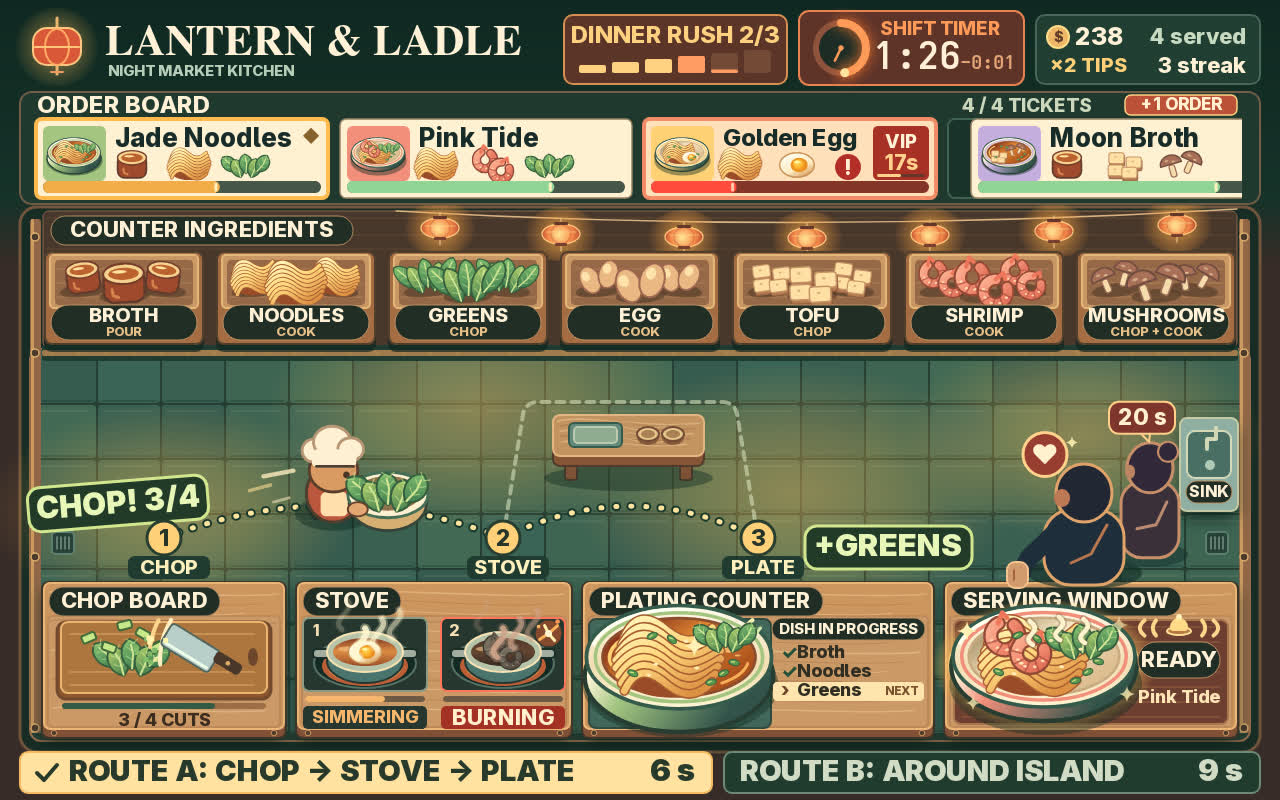
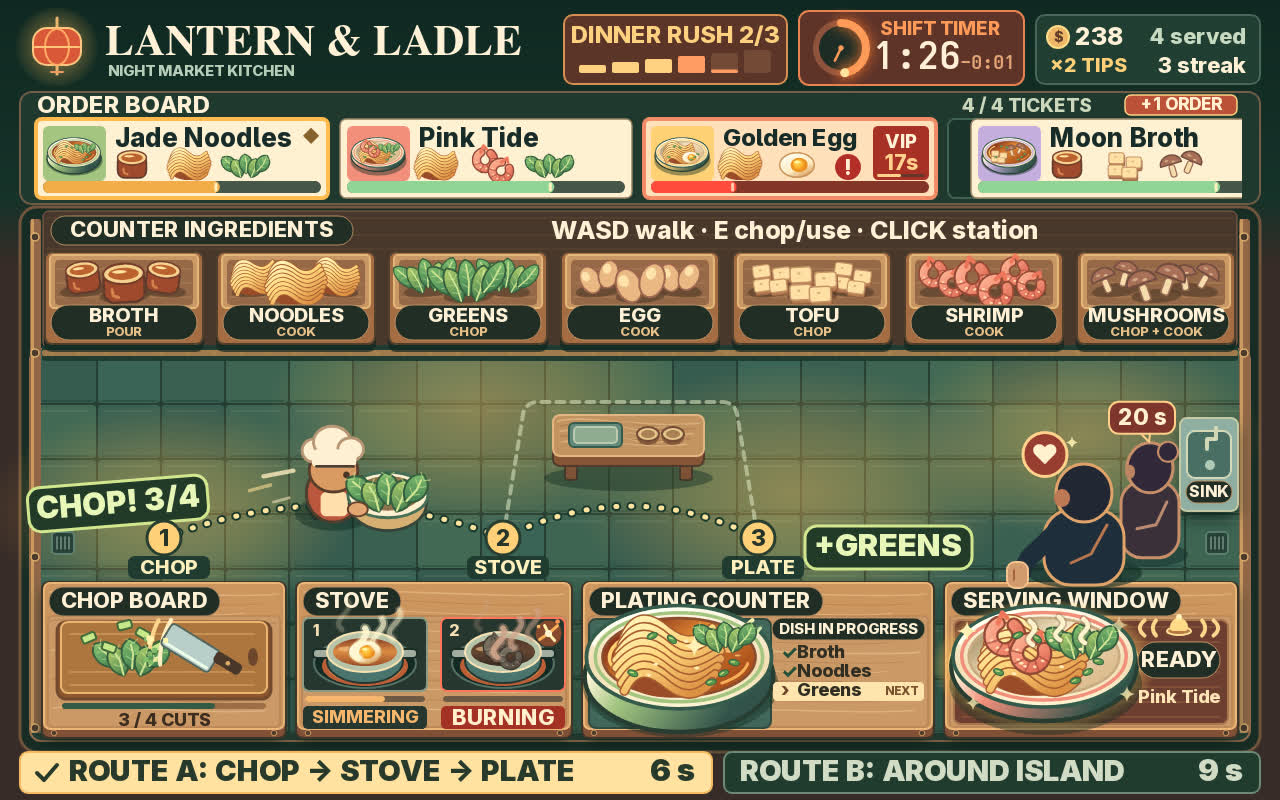
v20: readable control guide on the cover

Changed region(s): [[0.4062, 0.25, 0.9688, 0.3438], [0.3125, 0.25, 0.375, 0.3125]]

diff --git a/game/src/kitchen-view.js b/game/src/kitchen-view.js
@@ -7,7 +7,8 @@ import {
 import { drawDish, drawIngredient, label, meter, oval, palette, panel, stroke } from './paint.js';
 
 export function drawKitchen(ctx, state, route) {
-  drawRoom(ctx);
+  const cover = state.shot === 'cover';
+  drawRoom(ctx, cover);
   drawFurniture(ctx, state);
   drawStove(ctx, state);
   drawPlating(ctx, state);
@@ -20,7 +21,7 @@ export function drawKitchen(ctx, state, route) {
     panel(ctx, bit.x, bit.y, 5, 5, 1, bit.color);
   }
   ctx.globalAlpha = 1;
-  if (state.shot !== 'cover') drawServiceFooter(ctx, state);
+  if (!cover) drawServiceFooter(ctx, state);
   else if (route) drawCoverRouteChoices(ctx, route.choices);
 }
 
@@ -32,17 +33,19 @@ function drawStationFocus(ctx, state) {
   oval(ctx, station.standX, station.standY + 14, 11, 4, '#ffce749c');
 }
 
-export function drawRoom(ctx) {
-  if (!kitchenBackdrop) {
-    kitchenBackdrop = document.createElement('canvas');
-    kitchenBackdrop.width = 1280;
-    kitchenBackdrop.height = 800;
-    paintRoom(kitchenBackdrop.getContext('2d'));
+export function drawRoom(ctx, cover = false) {
+  const scene = cover ? 'cover' : 'service';
+  if (!kitchenBackdrops[scene]) {
+    const backdrop = document.createElement('canvas');
+    backdrop.width = 1280;
+    backdrop.height = 800;
+    paintRoom(backdrop.getContext('2d'), cover);
+    kitchenBackdrops[scene] = backdrop;
   }
-  ctx.drawImage(kitchenBackdrop, 0, 0);
+  ctx.drawImage(kitchenBackdrops[scene], 0, 0);
 }
 
-function paintRoom(ctx) {
+function paintRoom(ctx, cover) {
   const wall = ctx.createLinearGradient(0, 0, 0, 265);
   wall.addColorStop(0, '#102822');
   wall.addColorStop(.75, '#16322a');
@@ -74,7 +77,11 @@ function paintRoom(ctx) {
   }
   panel(ctx, 43, 211, 1194, 137, 6, '#49372c', '#8e6750', 1);
   for (const y of [218, 235, 249]) stroke(ctx, '#e4a76624', 1, [[47, y], [1232, y]]);
-  drawLanternString(ctx);
+  if (cover) {
+    label(ctx, 'WASD walk · E chop/use · CLICK station', 795, 231, 25, palette.light, { align: 'center' });
+  } else {
+    drawLanternString(ctx);
+  }
   panel(ctx, 42, 345, 1196, 16, 3, '#213b32');
   panel(ctx, 42, 350, 1196, 6, 2, '#a27a4d');
   for (let x = 50; x < 1238; x += 27) stroke(ctx, '#cd9e644f', 2, [[x, 351], [x + 4, 355]]);
@@ -127,7 +134,7 @@ function floorDrain(ctx, x, y) {
   for (let offset = -6; offset <= 6; offset += 4) stroke(ctx, '#789386', 1.5, [[x + offset, y - 6], [x + offset, y + 6]]);
 }
 
-let kitchenBackdrop;
+const kitchenBackdrops = {};
 
 function drawFurniture(ctx, state) {
   const cover = state.shot === 'cover';
